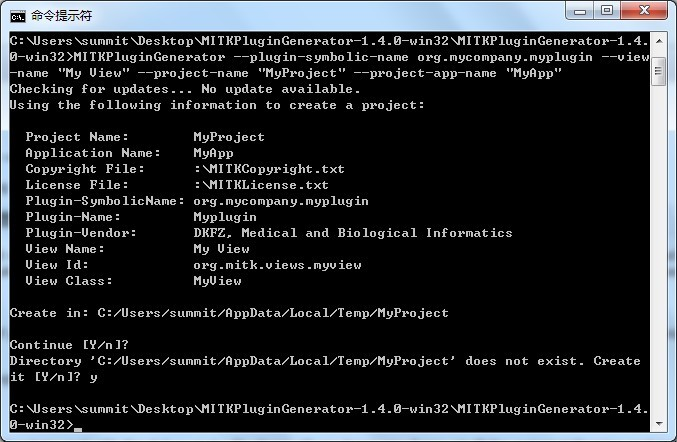
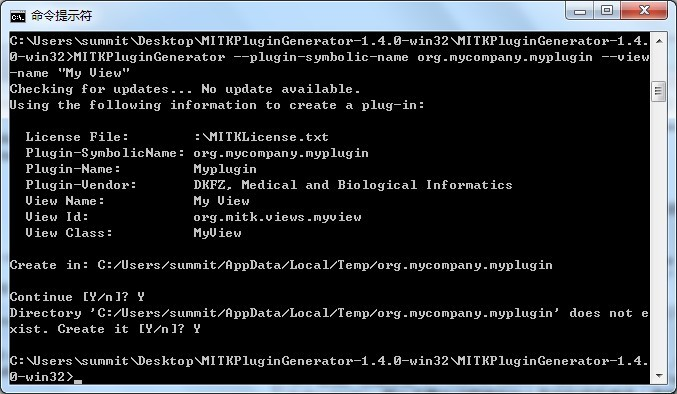
完成使用插件生成器生成插件

diff --git a/NewPluginPage.md b/NewPluginPage.md
@@ -42,5 +42,39 @@ MITK插件生成器（BundleGenerator）是一个用于简化创建你的MITK项
 
 	./MITKPluginGenerator --plugin-symbolic-name org.mycompany.myplugin --view-name "My View"
 
-> 下图为译者在本机上执行上述命令的结果图![运行结果图](image/newpluginpage0.jpg)
+> 下图为译者在本机上执行上述命令的结果图![运行结果图](image/newpluginpage0.jpg?raw=true)
+
+如果你没有通过`-out-dir`命令行参数指定插件的输出位置，例如在我们的例子里面。它输出至`C:/Users/summit/AppData/Local/Temp/MyProject`。那么不要忘记把插件加入至你的项目编译（通常你们把插件放至 <your-project>/Plugins/Plugins.cmake).
+
+创建一个新的MITK项目
+------------------
+
+先决条件
+-------
+由插件生成器创建基于MITK的项目首先要满足与MITK本身的先决条件。评见[MITK先决条件](http://docs.mitk.org/2012.06/BuildInstructionsPage.html)。
+
+这里是使用插件生成器创建一个项目，与上面创建插件类似，不过这次只是创建插件集成至新的项目中。命令行如下：
+
+	./MITKPluginGenerator --plugin-symbolic-name org.mycompany.myplugin --view-name "My View" --project-name "MyProject" --project-app-name "MyApp"
+
+> 下图为译者在本机上执行上述命令的结果图![运行结果图](image/newpluginpage1.jpg?raw=true)
+
+生成的项目是完整的可以立即通过[CMake](http://docs.mitk.org/2012.06/BlueBerry/reference/api/html/namespaceCMake.html)配置。当编译生成项目时，首先会下载所有相关的程序库（例如MITK本身）。有关项目目录的组织及使用[CMake](http://docs.mitk.org/2012.06/BlueBerry/reference/api/html/namespaceCMake.html)配置你的MITK项目，可以阅读[SetupAMITKBasedProject](http://www.mitk.org/wiki/SetupAMitkBasedProject)
+
+局限性
+-----
+
+插件生成器只支持一组十分有限的配置选项。为了让你的项目或插件有更多的定制功能，你需要熟悉[CMake](http://docs.mitk.org/2012.06/BlueBerry/reference/api/html/namespaceCMake.html)和编译系统。
+
+插件的编译系统
+------------
+你仅需要把插件新的文件放入你的插件目录src文件夹或是src/internal文件夹，并编辑在目录下面的files.cmake文件。如果你还有一些花哨的东西，例如外部库或外部头文件夹，那么你应该看看[CMake](http://docs.mitk.org/2012.06/BlueBerry/reference/api/html/namespaceCMake.html)的用户手册和MTIK的编译系统文档。
+
+> 放心，这部分内容译者会第一时间把使用心得加上，敬请留意
+
+排错
+----
+
+当运行项目的执行文件时，我得到**“could not find libary"**错误信息。
+> 这大部分是因为错误的环境变量设置。在Windows，确保你使用提供的指处理文件启动Visual Studio或你的项目可执行文件。如果仍提示错误 ，认真检查你的批处理文件中PATH变量值（它必须包含MITK、ITK、VTK和QT的BIN文件夹)。而在Linux，按上述要求设置LD_LIBRARY_PATH变量。
 
